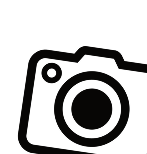
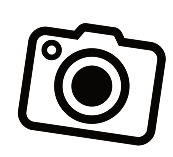
fix pág-selecaomodo (adição dos componentes MUI e mudanças em relação a posição das imagens)

diff --git a/src/pages/PlayModeSelection/PlayModeSelection.styles.ts b/src/pages/PlayModeSelection/PlayModeSelection.styles.ts
@@ -1,45 +1,60 @@
 import styled from "styled-components";
+import { CardMedia, Stack, Typography } from "@mui/material";
 
-export const PageWrapper = styled.div`
+export const PageWrapper = styled(Stack)`
+  && {
+    display: block;
+  }
   min-height: 100vh;
   background: radial-gradient(circle at top, rgba(124, 92, 255, 0.14), transparent 22%),
     linear-gradient(180deg, #fbfbff 0%, #f4f6ff 100%);
   color: #0f1320;
 `;
 
-export const PageInner = styled.div`
+export const PageInner = styled(Stack)`
+  && {
+    display: block;
+  }
   max-width: 960px;
   margin: 0 auto;
   padding: 32px 24px 24px;
 `;
 
-export const Topbar = styled.header`
+export const Topbar = styled(Stack)`
   display: flex;
+  && {
+    flex-direction: row;
+  }
   align-items: center;
   justify-content: space-between;
   gap: 18px;
   padding: 16px 0 24px;
 
   @media (max-width: 760px) {
-    flex-direction: column;
+    && {
+      flex-direction: column;
+    }
     align-items: flex-start;
   }
 `;
 
-export const BrandBlock = styled.div`
-  display: block;
+export const BrandBlock = styled(Stack)`
+  && {
+    display: block;
+  }
   align-items: center;
   gap: 20px;
 `;
 
-export const LogoImage = styled.img`
+export const LogoImage = styled(CardMedia)`
   height: 52px;
   object-fit: contain;
 `;
 
-export const Tagline = styled.p`
+export const Tagline = styled(Typography)`
   font-family: "Inter", Arial, Helvetica, sans-serif;
   font-size: 0.85rem;
+  line-height: normal;
   letter-spacing: 0.22em;
   text-transform: uppercase;
   font-weight: 700;
@@ -47,8 +62,11 @@ export const Tagline = styled.p`
   margin: 0;
 `;
 
-export const BackButton = styled.button`
+export const BackButton = styled(Stack).attrs({ as: "button" })`
   display: inline-flex;
+  && {
+    flex-direction: row;
+  }
   align-items: center;
   gap: 10px;
   border: 1px solid rgba(95, 74, 248, 0.18);
@@ -59,29 +77,28 @@ export const BackButton = styled.button`
   font-family: "Inter", Arial, Helvetica, sans-serif;
   font-size: 0.95rem;
   font-weight: 700;
+  line-height: normal;
+  min-width: 0;
+  text-transform: none;
   cursor: pointer;
   transition: transform 0.2s ease, box-shadow 0.2s ease;
 
   &:hover {
+    background: #ffffff;
     transform: translateY(-1px);
     box-shadow: 0 16px 36px rgba(95, 74, 248, 0.12);
   }
 `;
 
-export const AccentLine = styled.div`
+export const AccentLine = styled(Stack)`
   display: flex;
+  && {
+    flex-direction: row;
+  }
   align-items: center;
   justify-content: space-between;
   gap: 18px;
   margin-bottom: 36px;
-
-  div {
-    flex: 1;
-    height: 6px;
-    border-radius: 999px;
-    background: linear-gradient(90deg, #a46fff 0%, #7c5cff 100%);
-    box-shadow: 0 0 18px rgba(124, 92, 255, 0.2);
-  }
 
   svg {
     color: #7c5cff;
@@ -89,14 +106,14 @@ export const AccentLine = styled.div`
   }
 `;
 
-export const Content = styled.main`
+export const Content = styled(Stack)`
   display: flex;
   flex-direction: column;
   gap: 32px;
   padding-bottom: 40px;
 `;
 
-export const WelcomeTitle = styled.h1`
+export const WelcomeTitle = styled(Typography)`
   font-family: "Inter", Arial, Helvetica, sans-serif;
   font-size: clamp(2.8rem, 4vw, 4.5rem);
   font-weight: 700;
@@ -106,7 +123,7 @@ export const WelcomeTitle = styled.h1`
   margin: 0;
 `;
 
-export const WelcomeSubtitle = styled.p`
+export const WelcomeSubtitle = styled(Typography)`
   max-width: 720px;
   font-family: "Inter", Arial, Helvetica, sans-serif;
   font-size: 1.12rem;
@@ -115,16 +132,22 @@ export const WelcomeSubtitle = styled.p`
   margin: 0;
 `;
 
-export const CardsGrid = styled.div`
+export const CardsGrid = styled(Stack)`
   display: flex;
+  && {
+    flex-direction: row;
+  }
   justify-content: center;
   gap: 32px;
   flex-wrap: wrap;
 `;
 
-export const CardImageWrapper = styled.div`
+export const CardImageWrapper = styled(Stack)`
   margin-top: auto;
   display: flex;
+  && {
+    flex-direction: row;
+  }
   align-items: flex-end;
   justify-content: center;
   width: 100%;
@@ -132,21 +155,22 @@ export const CardImageWrapper = styled.div`
   overflow: visible;
 `;
 
-export const CardImage = styled.img`
+export const CardImage = styled(CardMedia)`
   width: 100%;
   max-width: 160px;
   object-fit: contain;
   transform: translateY(12px);
 `;
 
-export const CardTitle = styled.h2`
+export const CardTitle = styled(Typography)`
   font-family: "Inter", Arial, Helvetica, sans-serif;
   font-size: 1.15rem;
+  line-height: normal;
   color: #141625;
   margin: 0;
 `;
 
-export const CardDescription = styled.p`
+export const CardDescription = styled(Typography)`
   font-family: "Inter", Arial, Helvetica, sans-serif;
   font-size: 0.98rem;
   line-height: 1.65;
@@ -154,16 +178,19 @@ export const CardDescription = styled.p`
   margin: 0;
 `;
 
-export const ModeCard = styled.div`
+export const ModeCard = styled(Stack)`
   width: 400px;
   height: 160px;
   background: white;
   border-radius: 12px;
 
   position: relative; 
-  overflow: hidden;
+  overflow: visible;
 
   display: flex;
+  && {
+    flex-direction: row;
+  }
   justify-content: space-between;
   align-items: flex-start; 
 
@@ -173,28 +200,48 @@ export const ModeCard = styled.div`
   transition: 0.2s;
 `;
 
-export const SectionTitle = styled.h2`
+export const SectionTitle = styled(Typography)`
   text-align: center;
   font-size: 3rem;
+  line-height: normal;
   font-weight: 700;
   margin-bottom: 60px;
 `;
 
-export const CardContent = styled.div`
+export const CardContent = styled(Stack)`
   max-width: 240px; 
   display: flex;
   flex-direction: column;
   gap: 6px;
 `;
 
-export const CardIcon = styled.img`
+export const CardIcon = styled(CardMedia)`
   width: 130px;
   height: 130px;
   object-fit: contain;
   flex-shrink: 0;
+  pointer-events: none;
+  filter: drop-shadow(0 12px 12px rgba(45, 33, 79, 0.18));
 
   position: absolute;
-  bottom: 0;
-  right: 0;
+  bottom: -18px;
+  right: -16px;
 
+  @media (max-width: 520px) {
+    width: 112px;
+    height: 112px;
+    right: -8px;
+  }
+`;
+
+export const AccentLineFill = styled(Stack)`
+  && {
+    display: block;
+    flex: 1 1 auto;
+    min-width: 0;
+    height: 6px;
+  }
+  border-radius: 999px;
+  background: linear-gradient(90deg, #a46fff 0%, #7c5cff 100%);
+  box-shadow: 0 0 18px rgba(124, 92, 255, 0.2);
 `;

diff --git a/src/pages/PlayModeSelection/PlayModeSelection.tsx b/src/pages/PlayModeSelection/PlayModeSelection.tsx
@@ -17,6 +17,7 @@ import {
   Tagline,
   BackButton,
   AccentLine,
+  AccentLineFill,
   Content,
   WelcomeTitle,
   WelcomeSubtitle,
@@ -34,10 +35,10 @@ export const ModeSelection = () => {
   return (
     <PageWrapper>
       <PageInner>
-        <Topbar>
+        <Topbar as="header">
           <BrandBlock>
-            <LogoImage src={logo} alt="Orion" />
-            <Tagline>LUVA INTERATIVA MUSICAL</Tagline>
+            <LogoImage as="img" src={logo} alt="Orion" />
+            <Tagline as="p">LUVA INTERATIVA MUSICAL</Tagline>
           </BrandBlock>
 
           <BackButton onClick={() => navigate("/Teclado")}>
@@ -47,13 +48,13 @@ export const ModeSelection = () => {
         </Topbar>
 
         <AccentLine>
-          <div />
+          <AccentLineFill />
           <ArrowRight size={18} />
         </AccentLine>
 
-        <Content>
-          <WelcomeTitle>Como deseja tocar?</WelcomeTitle>
-          <WelcomeSubtitle>
+        <Content as="main">
+          <WelcomeTitle as="h1">Como deseja tocar?</WelcomeTitle>
+          <WelcomeSubtitle as="p">
             Selecione a forma de interação que deseja utilizar para tocar o instrumento.
           </WelcomeSubtitle>
 
@@ -65,15 +66,15 @@ export const ModeSelection = () => {
             >
               <ModeCard onClick={() => navigate("/camera")}>
                 <CardContent>
-                  <CardTitle>Câmera</CardTitle>
+                  <CardTitle as="h2">Câmera</CardTitle>
 
-                  <CardDescription>
+                  <CardDescription as="p">
                     Utilize suas mãos para tocar através do reconhecimento por
                     câmera.
                   </CardDescription>
                 </CardContent>
 
-                <CardIcon src={cameraIcon} alt="Câmera" />
+                <CardIcon as="img" src={cameraIcon} alt="Câmera" />
               </ModeCard>
             </motion.div>
 
@@ -88,14 +89,14 @@ export const ModeSelection = () => {
             >
               <ModeCard onClick={() => navigate("/glove")}>
                 <CardContent>
-                  <CardTitle>Luva Musical</CardTitle>
+                  <CardTitle as="h2">Luva Musical</CardTitle>
 
-                  <CardDescription>
+                  <CardDescription as="p">
                     Utilize a luva Orion para tocar através dos sensores.
                   </CardDescription>
                 </CardContent>
 
-                <CardIcon src={handIcon} alt="Luva Musical" />
+                <CardIcon as="img" src={handIcon} alt="Luva Musical" />
               </ModeCard>
             </motion.div>
           </CardsGrid>